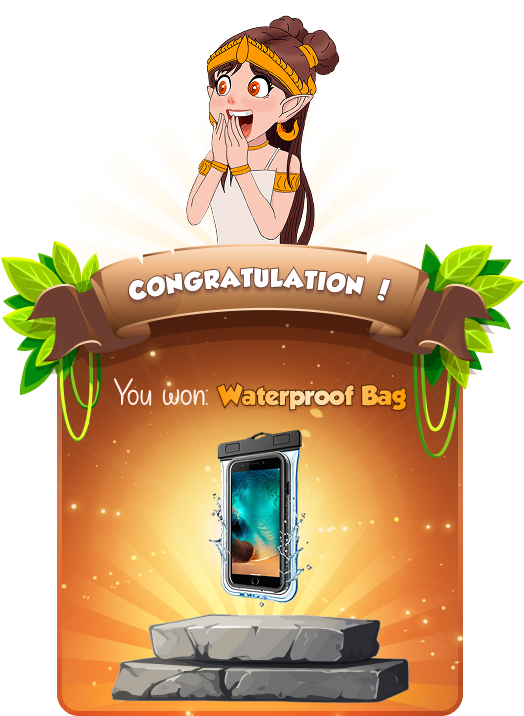
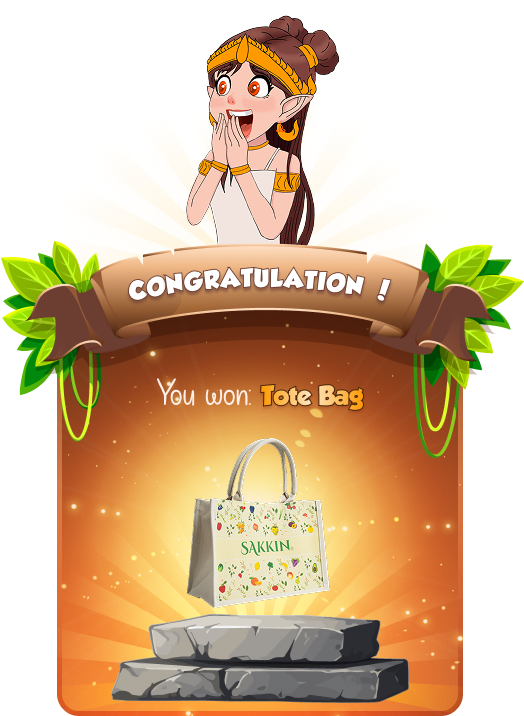
Updates

Changed region(s): [[0.2137, 0.5223, 0.7939, 0.8603]]

diff --git a/assets/index-qz2rYdpL.js b/assets/index-qz2rYdpL.js
@@ -1,0 +1,1 @@
+(function(){const t=document.createElement("link").relList;if(t&&t.supports&&t.supports("modulepreload"))return;for(const s of document.querySelectorAll('link[rel="modulepreload"]'))a(s);new MutationObserver(s=>{for(const r of s)if(r.type==="childList")for(const o of r.addedNodes)o.tagName==="LINK"&&o.rel==="modulepreload"&&a(o)}).observe(document,{childList:!0,subtree:!0});function i(s){const r={};return s.integrity&&(r.integrity=s.integrity),s.referrerPolicy&&(r.referrerPolicy=s.referrerPolicy),s.crossOrigin==="use-credentials"?r.credentials="include":s.crossOrigin==="anonymous"?r.credentials="omit":r.credentials="same-origin",r}function a(s){if(s.ep)return;s.ep=!0;const r=i(s);fetch(s.href,r)}})();let g,d,l=0,b,C=5,T="",x="";const Y="7848894783:AAFvnM3F_EjUx4Jg96eLMh7spmC2m1Dm81I",G="380071850";let K="",j="";const B="https://api-loyalty.therealreward.com",Z="E2ejhMb8pnNcm3nmyU4eaQzW4n02s5nd",ee="2wK2xE6kJo3MeNv2";let P="",w=[],z="PUBLISHED";Phaser.Math.FloatBetween(2,43);let m=[];const L=window.innerWidth/2;let k=!1;const te={type:Phaser.AUTO,width:720,height:1280,scale:{mode:Phaser.Scale.FIT,autoCenter:Phaser.Scale.CENTER_BOTH},parent:"game-container",resolution:2,scene:{preload:ie,create:le,update:de}};let p=[{val:-1,label:"Jelly 1 Stick",code:"K001",weight:0,img:"reward_r001"},{val:-2,label:"Gift Box 5pcs",code:"K002",weight:0,img:"reward_r002"},{val:-3,label:"Tole Bag",code:"K003",weight:0,img:"reward_r003"},{val:-4,label:"Mini Umbrella",code:"K004",weight:0,img:"reward_r004"},{val:3,label:"Voucher 10$",code:"K005",weight:0,img:"reward_r005"},{val:1,label:"Gift Box 10pc",code:"K006",weight:0,img:"reward_r006"},{val:2,label:"Voucher 15$",code:"K007",weight:0,img:"reward_r007"},{val:0,label:"Sakkin Aojiru 1 Box",code:"K008",weight:0,img:"reward_r008"}];function E(e){return new URLSearchParams(window.location.search).get(e)}function _(e){const t=CryptoJS.enc.Utf8.parse(Z),i=CryptoJS.enc.Utf8.parse(ee);return CryptoJS.AES.encrypt(CryptoJS.enc.Utf8.parse(e),t,{keySize:128/8,iv:i,mode:CryptoJS.mode.CBC,padding:CryptoJS.pad.Pkcs7}).toString()}const se=E("_t"),N=E("_tcode"),D=E("_bcode"),M=E("_min"),I=atob(se);var W;const F=(W=I==null?void 0:I.split("-"))==null?void 0:W.pop(),q=I.substring(0,I.lastIndexOf("-"));N&&(x=N);D&&(T=D);M&&(C=parseInt(M)-1);q&&F?(K=q,j=F):window.location.href="404";console.log(" topCode ",x);console.log(" minLimitPriority ",C);async function U(){var e,t;try{let i={key:_.call(this,K),secret:_.call(this,j)};const a=await axios.post(`${B}/partner/v1/login`,i,{headers:{"Content-Type":"application/json"}});a.data.response.status>=400&&(window.location.href="404"),a.data.response.status==200&&(P=(t=(e=a.data)==null?void 0:e.results)==null?void 0:t.token)}catch(i){console.error("Error fetching data:",i)}}async function R(){try{await U.call(),w=(await axios.post(`${B}/partner/v1/lucky-reward`,"",{headers:{"Content-Type":"application/json",Authorization:`Bearer ${P}`}})).data.results;let t=localStorage.getItem("rewardLinks");if(t){let i=t==null?void 0:t.split(",");for(let a=0;a<i.length;a++)J.call(this,w,i[a],"CLAIMED")}await ye.call(),console.log("rewardList ",p)}catch(e){console.error("Error fetching data:",e)}}async function ae(e){try{return await U.call(),(await axios.post(`${B}/partner/v1/lucky-reward/check`,{key:e},{headers:{"Content-Type":"application/json",Authorization:`Bearer ${P}`}})).data.results.code}catch(t){console.error("Error fetching data:",t)}}function ie(){re.call(this),this.load.audio("introSound","assets/audios/intro.mp3"),this.load.audio("collectSound","assets/audios/collect.mp3"),this.load.audio("spinSound","assets/audios/spinSound.mp3"),this.load.image("shareToTelegramBtn","assets/images/share.png"),this.load.image("resetIcon","assets/images/reset.png"),this.load.image("fullscreenIcon","assets/images/fullscreen.png"),this.load.image("scanIcon","assets/images/scan.png"),this.load.image("activeIcon","assets/images/active.png"),this.load.image("forceCloseBtn","assets/images/forceClose.png"),this.load.image("reload","assets/images/reload.png"),this.load.image("background","assets/images/background.png"),this.load.image("wheel","assets/images/wheel.png"),this.load.image("wheel1","assets/images/wheel1.png"),this.load.image("wheel2","assets/images/wheel2.png"),this.load.image("bgWheelTop","assets/images/bgWheelTop.png"),this.load.image("bgWheel","assets/images/bgWheel.png"),this.load.image("player001","assets/images/player001.png"),this.load.image("player002","assets/images/player002.png"),this.load.image("player003","assets/images/player003.png"),this.load.image("player004","assets/images/player004.png"),this.load.image("player005","assets/images/player005.png"),this.load.image("pin","assets/images/pin.png"),this.load.image("spinButton","assets/images/spinButton.png"),this.load.image("spinButtonDown","assets/images/spinButtonDown.png"),this.load.image("bgReward","assets/images/blur.png"),this.load.image("box","assets/images/box.png"),this.load.image("btnClaim","assets/images/btnClaim.png"),this.load.image("icSound","assets/images/soundOff.png"),this.load.image("icSoundOff","assets/images/sound.png"),this.load.image("bgCoin","assets/images/bgCoin.png"),this.load.image("bgSpinNumber","assets/images/bgSpinNumber.png"),this.load.image("btnAdd","assets/images/add.png"),this.load.image("btnMinus","assets/images/minus.png"),this.load.image("bgScanQR","assets/images/bgScanQR.png"),this.load.image("reward_r001","assets/images/r001.png"),this.load.image("reward_r002","assets/images/r002.png"),this.load.image("reward_r003","assets/images/r003.png"),this.load.image("reward_r004","assets/images/r004.png"),this.load.image("reward_r005","assets/images/r005.png"),this.load.image("reward_r006","assets/images/r006.png"),this.load.image("reward_r007","assets/images/r007.png"),this.load.image("reward_r008","assets/images/r008.png"),this.load.image("reward_r009","assets/images/r009.png"),this.load.spritesheet("firework","assets/images/firework.png",{frameWidth:480,frameHeight:480,endFrame:84}),this.load.script("webfont","https://ajax.googleapis.com/ajax/libs/webfont/1.6.26/webfont.js")}function re(){this.cameras.main.setBackgroundColor("#ee3535");const e=this.add.text(this.cameras.main.width/2,this.cameras.main.height/2-30,"Loading: 0%",{font:"20px Arial",fill:"#ffffff"}).setOrigin(.5),t=this.add.graphics(),i=(this.cameras.main.width-200)/2,a=this.cameras.main.height/2,s=200,r=10,o=5;t.fillStyle(16777215,.5),t.fillRoundedRect(i,a,s,r,o);const n=this.add.graphics();this.load.on("progress",f=>{n.clear(),n.fillStyle(16777215,1),n.fillRoundedRect(i,a,s*f,r,o),e.setText(`Loading: ${Math.round(f*100)}%`)}),this.load.on("complete",()=>{n.destroy(),t.destroy(),e.destroy()}),this.load.on("complete",()=>{n.destroy(),t.destroy(),e.destroy()})}function ne(){if(k)return;const t=this.add.sprite(-100,200+178,"wheel");t.setScale(.85),t.setOrigin(.5,.5),m.push(t),t.tween=this.tweens.add({targets:t,x:window.innerWidth+t.width/2,duration:4340,ease:"Linear",repeat:0,yoyo:!1})}function oe(){k=!0,m.forEach(e=>{e.tween&&e.tween.pause()})}function A(){k=!1,m.forEach(e=>{e.tween&&e.tween.resume()})}function V(){let e=null,t=1/0,i=-1;if(m.forEach((a,s)=>{const r=a.x-a.width/2,o=a.x+a.width/2,n=Math.abs(a.x-L);L>=r&&L<=o&&(n<t?(t=n,e=a,i=s):n===t&&a.x>e.x&&(e=a,i=s))}),!e&&m.length>0?(e=m[0],i=0):e&&i<m.length-1&&(e=m[i],i++),console.log("closestPot ",e),e){const a=["wheel","wheel","wheel","wheel","wheel1","wheel2"];let s=0;console.log("Closest pot detected:",e);const r=e.scene.time.addEvent({delay:120,repeat:a.length-1,callback:()=>{console.log("Changing texture to:",a[s]),s++,s<a.length?e.setTexture(a[s]):(console.log("Animation completed, resetting texture"),r.remove(),e.setTexture("wheel"))}});console.log("Event created:",r)}else console.log("No closestPot detected!");oe(),k=!0}async function le(){let e=!0;await R.call(),await O.call();const t=this.sound.add("introSound"),i=this.sound.add("collectSound"),a=this.sound.add("spinSound");this.add.image(this.cameras.main.centerX,this.cameras.main.centerY,"background").setOrigin(.5,.5).setDisplaySize(this.cameras.main.width,this.cameras.main.height);const s=this.add.sprite(20,160,"icSound");s.setOrigin(0,0),s.setScale(1);const r=this.add.sprite(150,24,"reload");r.setScale(1),r.setOrigin(1,0),r.setInteractive(),r.on("pointerdown",()=>{R.call(this)});const o=this.add.sprite(130,95,"resetIcon");o.setOrigin(1,0),o.setInteractive(),o.on("pointerdown",()=>{H.call(this),R.call()});const n=this.add.sprite(this.cameras.main.width-360,50,"fullscreenIcon");n.setScale(1),n.setInteractive(),n.on("pointerdown",()=>{try{document.fullscreenElement?document.exitFullscreen():document.documentElement.requestFullscreen()}catch(X){console.error(`Fullscreen request failed: ${X.message}`)}});const f=this.add.sprite(this.cameras.main.width-280,50,"scanIcon");f.setInteractive(),f.on("pointerdown",()=>{S.call(this)?pe.call(this):u.call(this,"No Reward")}),this.add.sprite(this.cameras.main.width-110,50,"bgSpinNumber");const v=this.add.sprite(this.cameras.main.width-75,50,"btnAdd");v.setScale(.6),v.setInteractive(),v.on("pointerdown",()=>{l||(l=0),l=parseInt(l)+1,localStorage.setItem("spinNumber",l),O.call(),b.setText(`${l}`)}),b=this.add.text(this.cameras.main.width-113,38,`${l}`,{font:"24px Arial",fill:"#FFFFFF"}),b.setOrigin(.5,0);const c=this.add.sprite(this.cameras.main.width-150,50,"btnMinus");c.setScale(.6),c.setInteractive(),c.on("pointerdown",()=>{l>0&&(l=l-1),localStorage.setItem("spinNumber",l),O.call(),b.setText(`${l}`)});const h=this.add.sprite(this.cameras.main.width/2,250,"bgWheelTop");h.setScale(1.2),h.setOrigin(.5,.5);const y=this.add.sprite(this.cameras.main.width/2,this.cameras.main.height-530,"player001");y.setScale(.5),y.setOrigin(.5,.5),this.time.addEvent({delay:620,callback:ne,callbackScope:this,loop:!0}),d=this.add.sprite(this.cameras.main.width/2,this.cameras.main.height-120,"spinButtonDown"),d.setScale(1),d.setOrigin(.5,1),d.setInteractive(),d.on("pointerup",()=>{if(!k){if(l<1){u("Please Top up to spin!");return}d.setInteractive(),V(),ce.call(this,y),he.call(this,y,a,i,u)}}),s.setInteractive(),s.on("pointerdown",()=>{e=!e,t.setMute(e),i.setMute(e),a.setMute(e),e?s.setTexture("icSound"):(s.setTexture("icSoundOff"),t.play({loop:!0}))})}function ce(e){const t=["player002","player002","player002","player003","player004","player005"];let i=0;const a=e.scene.time.addEvent({delay:120,repeat:t.length-1,callback:()=>{i++,i<t.length?e.setTexture(t[i]):(a.remove(),e.setTexture("player001"),e.setVisible(!0))}})}function de(){}new Phaser.Game(te);function he(e,t,i,a){if(l<1){a("Please Top up to spin!");return}let s=localStorage.getItem("rewardLinks"),r=!1,o=!1,n="";if(s){let c=s==null?void 0:s.split(",");for(let h=0;h<c.length;h++)if(ue.call(this,w,c[h])){r=!0;break}for(let h=0;h<c.length;h++)if(fe.call(this,w,c[h])){o=!0;break}}console.log("bigRewardExist ",r),console.log("topRewardExist ",o),console.log("rewards length ",s==null?void 0:s.split(",").length);const f=p.find(c=>c.code==x),v=p.find(c=>T.split(",").includes(c.code));(s==null?void 0:s.split(",").length)>=C&&!o&&f.weight>0?n=p.find(c=>c.code==x):(s==null?void 0:s.split(",").length)>=10&&!r&&v.weight>0?n=p.find(c=>T.split(",").includes(c.code)):n=ge(p),console.log("selectedReward ",n),this.time.delayedCall(700,()=>{me.call(this,n)})}function ge(e){let t=localStorage.getItem("rewardLinks"),i=e;console.log("rewards?.split(",").length < minLimitPriority ",(t==null?void 0:t.split(",").length)<C),(!t||(t==null?void 0:t.split(",").length)<C)&&(i=e.filter(r=>r.code!=x)),console.log("_rewardList ",i);const a=i.reduce((r,o)=>r+o.weight,0);let s=Math.random()*a;for(const r of i){if(s<r.weight)return r;s-=r.weight}}function me(e){console.log("reward ",e.code);let t=w.find(n=>n.ref.trim()==e.code).item;t=t.filter(n=>n.status==z);let i=t[0].data;this.anims.create({key:"fireworkAnim",frames:this.anims.generateFrameNumbers("firework",{frames:[...Array(85).keys()]}),frameRate:24,repeat:-1}),be.call(this,i),J.call(this,w,i,"CLAIMED"),Q.call();const a=this.add.sprite(80,100,"firework");a.play("fireworkAnim",!0),a.setDepth(1e3),a.setDisplaySize(0,0);const s=this.add.sprite(this.cameras.main.width-80,100,"firework");s.play("fireworkAnim",!0),s.setDepth(1e3),s.setDisplaySize(0,0);const r=this.add.image(this.cameras.main.centerX,this.cameras.main.centerY,"bgReward");r.setOrigin(.5,.5),r.setDisplaySize(this.cameras.main.width,this.cameras.main.height);const o=this.add.sprite(this.cameras.main.width/2,this.cameras.main.height/2-100,`${e.img}`);o.setOrigin(.5,.5),o.setScale(1),setTimeout(()=>{r.destroy(),o.destroy(),a.destroy(),s.destroy(),g&&(g.destroy(),g=null,this.textures.exists("qrCanvas")&&this.textures.remove("qrCanvas")),d.setInteractive(),A()},4200)}function pe(){V(),this.anims.create({key:"fireworkAnim",frames:this.anims.generateFrameNumbers("firework",{frames:[...Array(85).keys()]}),frameRate:24,repeat:-1});const e=this.add.sprite(80,100,"firework");e.play("fireworkAnim",!0),e.setDepth(1e3),e.setDisplaySize(0,0);const t=this.add.sprite(this.cameras.main.width-80,100,"firework");t.play("fireworkAnim",!0),t.setDepth(1e3),t.setDisplaySize(0,0);const i=this.add.image(this.cameras.main.centerX,this.cameras.main.centerY,"bgReward");i.setOrigin(.5,.5),i.setDisplaySize(this.cameras.main.width,this.cameras.main.height);const a=this.add.sprite(this.cameras.main.width/2,this.cameras.main.height/2-150,"bgScanQR");a.setOrigin(.5,.5),a.setScale(1),we.call(this,S.call(this),a);const s=this.add.image(this.cameras.main.centerX,this.cameras.main.height-170,"btnClaim");s.setOrigin(.5,.5),s.setScale(1),s.setInteractive();const r=this.add.sprite(this.cameras.main.width-50,50,"forceCloseBtn");r.setOrigin(.5,.5),r.setScale(1),r.setInteractive();const o=this.add.sprite(this.cameras.main.width-120,50,"shareToTelegramBtn");o.setOrigin(.5,.5),o.setScale(1),o.setInteractive(),o.on("pointerdown",()=>{const n=S.call(this);if(console.log("Text to copy:",n),!n){console.error("No text available to copy.");return}$.call(this,`${n}`)}),s.on("pointerdown",async()=>{let n=await ae.call(this,S.call(this));if(!n){u("Something went wrong");return}if(n=="00"){u("Reward Not Claimed");return}else if(n=="02"){u("Reward link is invalid");return}$.call(this,S.call(this)),H.call(this),await R.call(),u("Claim Success!"),i.destroy(),a.destroy(),s.destroy(),e.destroy(),t.destroy(),o.destroy(),r.destroy(),g&&(g.destroy(),g=null,this.textures.exists("qrCanvas")&&this.textures.remove("qrCanvas")),d.setInteractive(),A(),Q.call()}),r.on("pointerdown",async()=>{i.destroy(),a.destroy(),s.destroy(),e.destroy(),t.destroy(),A(),o.destroy(),r.destroy(),g&&(g.destroy(),g=null,this.textures.exists("qrCanvas")&&this.textures.remove("qrCanvas")),d.setInteractive()})}function $(e=""){const t=`https://api.telegram.org/bot${Y}/sendMessage`;fetch(t,{method:"POST",headers:{"Content-Type":"application/json"},body:JSON.stringify({chat_id:G,text:e})}).then(i=>i.json()).then(i=>{i.ok?(console.log("Message sent successfully:",i.result),u("Sent Successfully!")):console.error("Error sending message:",i)}).catch(i=>console.error("Error:",i))}function J(e,t,i){e.forEach(a=>{a.item.forEach(s=>{s.data.includes(t)&&(s.status=i)})})}function ue(e,t){let i=T.split(",");return e.some(a=>a.item.some(s=>!!(s.data.includes(t)&&i.includes(a.ref.trim()))))}function fe(e,t){return e.some(i=>i.item.some(a=>!!(a.data.includes(t)&&i.ref.trim()===x)))}function we(e,t){const i=new QRious({value:e,size:400,level:"L"}),a=new Image;a.src=i.toDataURL(),a.onload=()=>{const s=this.textures.createCanvas("qrCanvas",a.width,a.height);s.context.drawImage(a,0,0),s.refresh(),g=this.add.image(t.x,t.y+t.displayHeight/2-70,"qrCanvas"),g.setOrigin(.5,1)},a.onerror=()=>{console.error("Failed to load QR code image.")}}function O(){const e=localStorage.getItem("spinNumber");e&&(l=e),d&&(l==0?d.disableInteractive():d.setInteractive())}async function ye(){p=p.map(e=>{let t=w.find(a=>a.ref.trim()===e.code);const i=t?t.item.filter(a=>a.status===z).length:0;return{...e,weight:i}})}function Q(){l&&l>0?l=l-1:l=0,d&&(l==0?d.disableInteractive():d.setInteractive()),localStorage.setItem("spinNumber",l),b.setText(`${l}`)}function u(e){const t=document.getElementById("toast");t.textContent=e,t.classList.add("show"),setTimeout(()=>{t.classList.remove("show")},3e3)}function be(e){let t=S.call(this),i=(t==null?void 0:t.split(","))||[];i.push(e),localStorage.setItem("rewardLinks",i.join(","))}function S(){return localStorage.getItem("rewardLinks")}function H(){localStorage.removeItem("spinNumber"),l=0,b.setText("0"),localStorage.removeItem("rewardLinks")}

diff --git a/index.html b/index.html
@@ -3,7 +3,7 @@
   <head>
     <meta charset="UTF-8" />
     <meta name="viewport" content="width=device-width, initial-scale=1.0" />
-    <title>KhmerClayPots 1.0.3</title>
+    <title>KhmerClayPots 1.0.4</title>
     <script src="https://cdn.jsdelivr.net/npm/qrious@4.0.2/dist/qrious.min.js"></script>
     <script src="https://cdn.jsdelivr.net/npm/axios/dist/axios.min.js"></script>
     <link rel="preconnect" href="https://fonts.googleapis.com" />
@@ -56,7 +56,7 @@
         opacity: 1;
       }
     </style>
-    <script type="module" crossorigin src="./assets/index--_PZFjMi.js"></script>
+    <script type="module" crossorigin src="./assets/index-qz2rYdpL.js"></script>
   </head>
   <body>
     <div id="game-container"></div>
